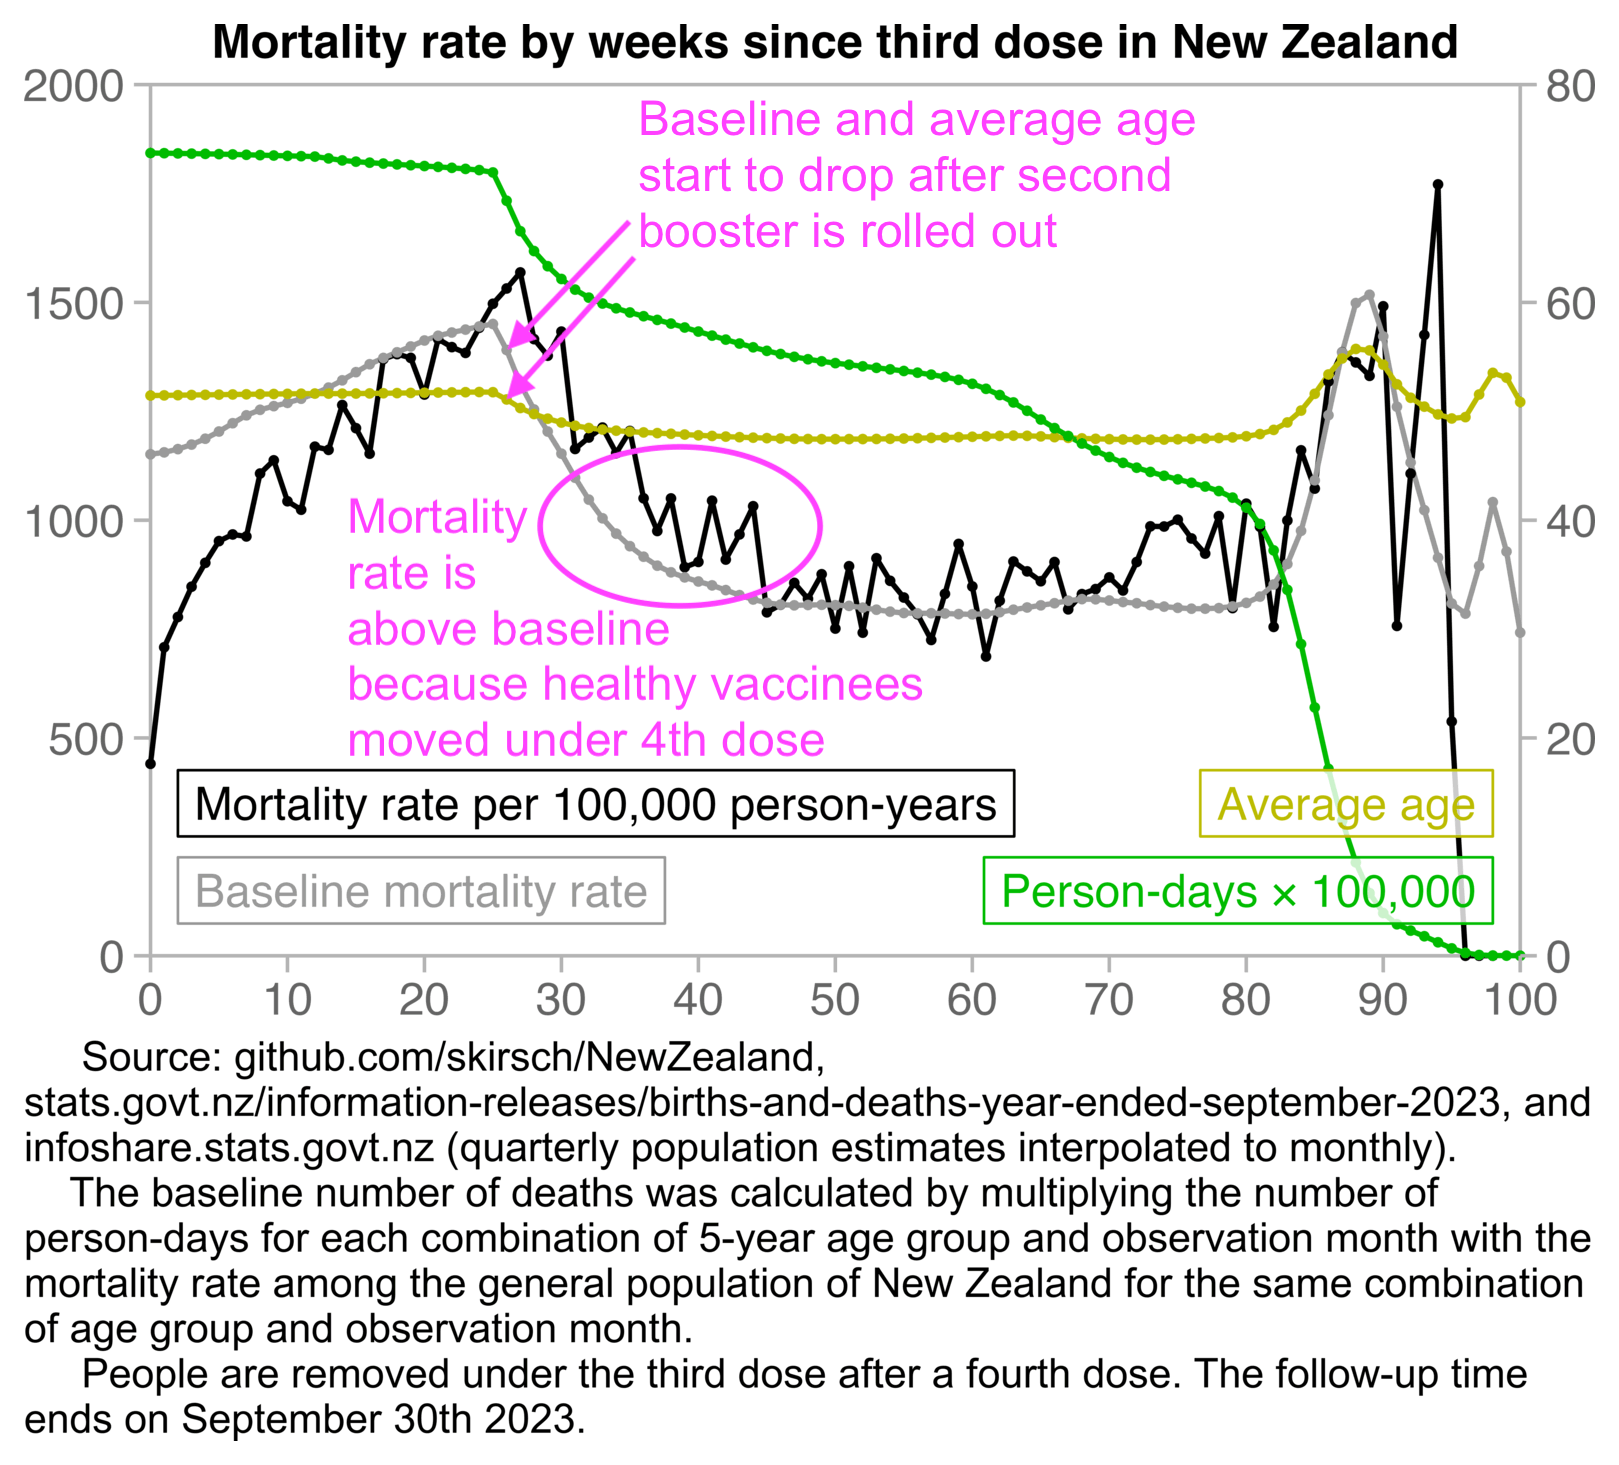
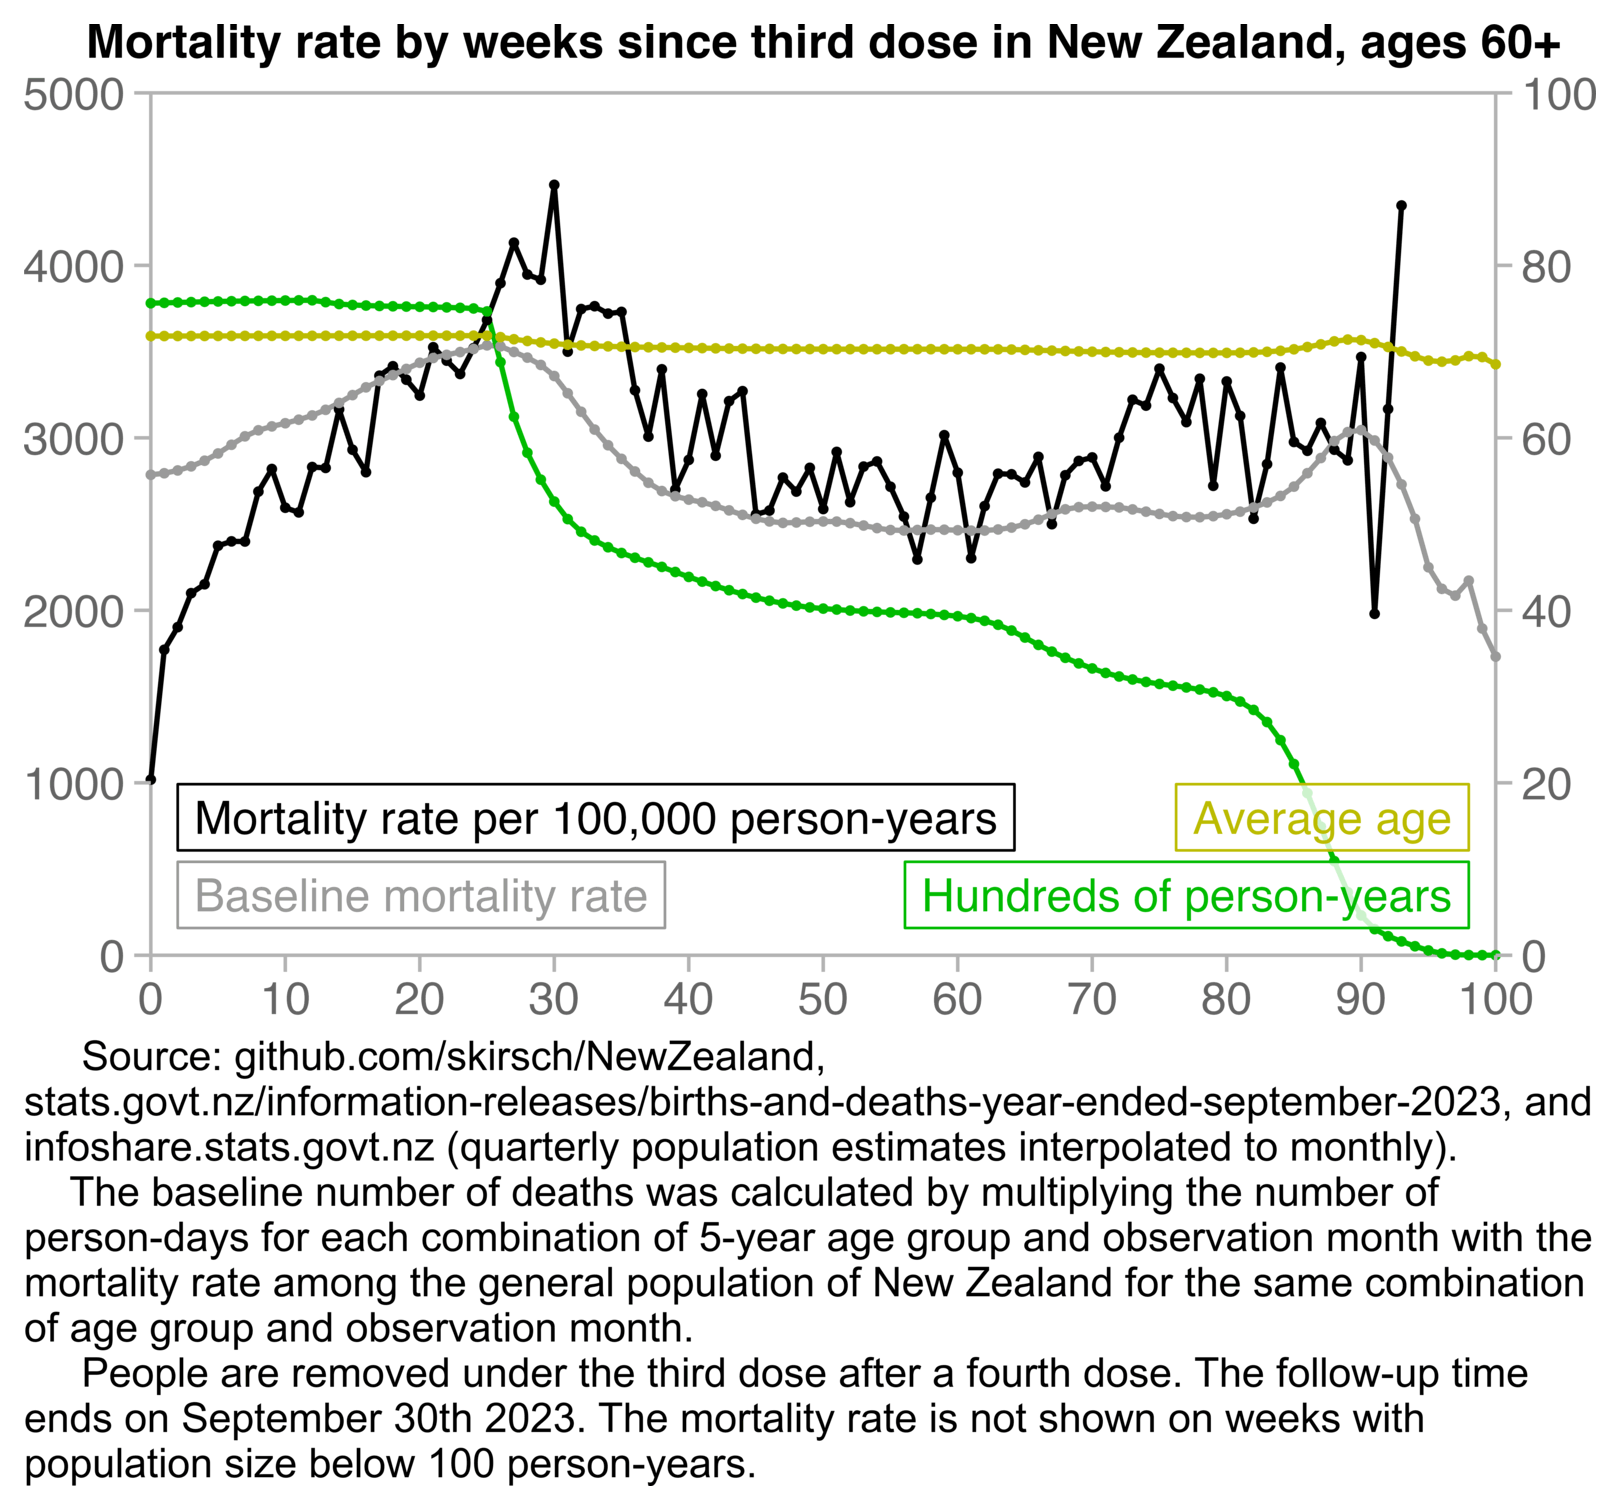
a

diff --git a/rootclaim5.html b/rootclaim5.html
@@ -1388,8 +1388,9 @@ o[,.(year,unvax=round(unvax),vax=round(vax),ratio=round(unvax/vax,2))]
 <div>
 <img src=i/rootclaim-nzdose3.png width=500>
 </div>
-<p>The reason why the mortality rate increased between week 0 and 30 was because the healthy vaccinee effect got weaker over time, and also because the rollout of the first booster to elderly people peaked in January to February 2022, but New Zealand had the first big increase in deaths due to COVID in March 2022.</p>
-<p>The reason why the deaths started going down after week 30 was because people were removed from the population size after they got a fourth dose, and old people were more likely to get a second booster than young people, so the average age of people with only one booster went down after the second booster was rolled out:</p>
+<p>His plot only included ages 60 and above. The reason why the mortality rate increased between week 0 and 30 was because the healthy vaccinee effect got weaker over time, and also because the rollout of the first booster to ages 60 and above peaked in January to February 2022, but New Zealand had the first big wave of COVID deaths in March 2022.</p>
+<p>The reason why the mortality rate started going down after week 27 was because people were removed from the population size after they got a fourth dose, people at the lower end of ages 60 and above were less likely to get a second booster than older people, so the average age of people with only three doses went down after the second booster was rolled out.</p>
+<p>The mortality rate of people with 3 doses remains above the baseline mortality rate from week 24 onwards, but it's because the healthy vaccinees moved under the 4th dose, so the people who remained under the 4th dose had elevated mortality because of the straggler effect:</p>
 <div>
 <img src=i/rootclaim-nzdose3-2.png width=600>
 </div>
@@ -1399,7 +1400,7 @@ Show code
 </button>
 <pre>ua=\(x,y,...){u=unique(x);y(u,...)[match(x,u)]}
 
-t=fread(&quot;https://sars2.net/f/buckets.gz&quot;)[dose==3]
+t=fread(&quot;https://sars2.net/f/buckets.gz&quot;)[dose==3&amp;age&gt;=60]
 a=t[,.(dead=sum(dead),pop=sum(alive)),.(week,age=pmin(age,95)%/%5*5,month=ua(date,substr,1,7))]
 
 nz=fread(&quot;https://sars2.net/f/nz_monthly_deaths_by_age.csv&quot;)
@@ -1411,16 +1412,16 @@ nz=merge(nz,nzpop[,spline(date,pop,xout=unique(nz$date)),age][,.(age,date=x,pop=
 nz=nz[,.(month=substr(date,1,7),base=dead/pop/days_in_month(date),age)]
 
 a=merge(a,nz)
-p1=a[,.(y=sum(dead)/sum(pop)*365e5,z=&quot;Mortality rate per 100,000 person-years&quot;),week]
+p1=a[,.(y=`if`(sum(pop)&lt;=365e2,NA_real_,sum(dead)/sum(pop)*365e5),z=&quot;Mortality rate per 100,000 person-years&quot;),week]
 p2=a[,.(y=sum(base*pop)/sum(pop)*365e5,z=&quot;Baseline mortality rate&quot;),week]
 p3=t[,.(y=weighted.mean(age,alive),z=&quot;Average age&quot;),week]
-p4=a[,.(y=sum(pop)/1e5,z=&quot;Person-days × 100,000&quot;),week]
+p4=a[,.(y=sum(pop)/365e2,z=&quot;Hundreds of person-years&quot;),week]
 p=rbind(p1,p2,p3,p4)[,z:=factor(z,unique(z))]
 
-yend=2000;ybreak=0:4*500;yend2=80;ybreak2=0:4*20;secmult=yend/yend2
+yend=5000;ybreak=0:5*1000;yend2=100;ybreak2=0:5*20;secmult=yend/yend2
 xstart=0;xend=100;xbreak=0:10*10
 
-leg=p[,.(label=levels(z),hjust=c(0,0,1,1),x=c(2,2,98,98),y=c(350,150))]
+leg=p[,.(label=levels(z),hjust=c(0,0,1,1),x=c(2,2,98,98),y=yend*c(.16,.07))]
 color=c(&quot;black&quot;,&quot;gray60&quot;,&quot;#bbbb00&quot;,&quot;#00bb00&quot;)
 
 p[,ymult:=ifelse(z%in%levels(z)[1:2],y,y*secmult)]
@@ -1430,7 +1431,7 @@ annotate(&quot;rect&quot;,xmin=xstart,xmax=xend,ymin=0,ymax=yend,color=&quot;gra
 geom_line(aes(week,ymult,color=z),linewidth=.6)+
 geom_point(aes(week,ymult,color=z),stroke=0,size=1.2)+
 geom_label(data=leg,aes(x,y,hjust=hjust,label=label),size=3.87,color=color,label.r=unit(0,&quot;pt&quot;),label.padding=unit(4,&quot;pt&quot;),label.size=.3,fill=alpha(&quot;white&quot;,.8))+
-labs(x=NULL,y=NULL,title=&quot;Mortality rate by weeks since third dose in New Zealand&quot;)+
+labs(x=NULL,y=NULL,title=&quot;Mortality rate by weeks since third dose in New Zealand, ages 60+&quot;)+
 scale_x_continuous(limits=c(xstart,xend),breaks=xbreak)+
 scale_y_continuous(limits=c(ystart,yend),breaks=ybreak,sec.axis=sec_axis(trans=~./secmult,breaks=ybreak2))+
 scale_color_manual(values=color)+
@@ -1440,9 +1441,7 @@ theme(axis.text=element_text(size=11,color=&quot;gray40&quot;,margin=margin(2,2,
   axis.ticks.length=unit(4,&quot;pt&quot;),
   legend.position=&quot;none&quot;,
   panel.background=element_blank(),
-  panel.spacing=unit(0,&quot;pt&quot;),
-  plot.subtitle=element_text(size=11,hjust=.5,margin=margin(,,4)),
-  plot.title=element_text(size=11.3,hjust=.5,face=&quot;bold&quot;,margin=margin(1,,4)),
+  plot.title=element_text(size=11.3,hjust=.5,face=&quot;bold&quot;,margin=margin(1,,6)),
   strip.background=element_blank(),
   strip.text=element_blank())
 ggsave(&quot;1.png&quot;,width=5.4,height=3.5,dpi=300*4)</pre>
